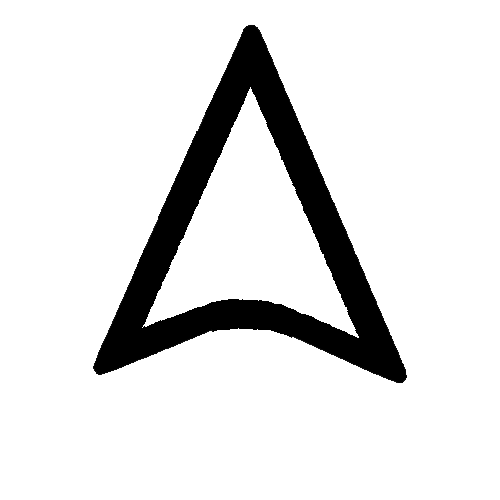
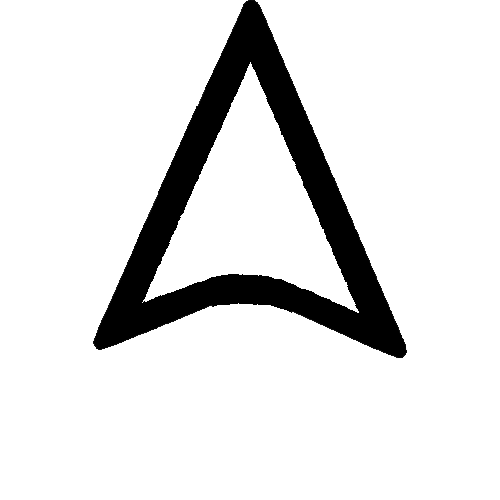
Modify cursor so that the tip is the origin point rather than the center of the img.

Changed region(s): [[0.18, 0.0, 0.81, 0.78]]

diff --git a/Examples-Web/SystemCursor/SystemCursorExample.js b/Examples-Web/SystemCursor/SystemCursorExample.js
@@ -18,24 +18,30 @@ function AddTouchFreeCursor()
     cursor.style.position = "absolute";
     cursor.width = 150;
     cursor.height = 150;
-    cursor.style.zIndex = "1001";
+    cursor.style.zIndex = "9001";
     cursor.style.transform = "rotate(-30deg)";
+    cursor.style.transformOrigin = "50% 0%";
+    cursor.style.transform = "translate(-50%, 0%) rotate(-30deg)";
 
     var cursorBorder = document.createElement('img');
     cursorBorder.src = "./images/CursorBorderBlackNoTail.png";
     cursorBorder.style.position = "absolute";
     cursorBorder.width = 150;
     cursorBorder.height = 150;
-    cursorBorder.style.zIndex = "1003";
+    cursorBorder.style.zIndex = "9003";
     cursorBorder.style.transform = "rotate(-30deg)";
+    cursorBorder.style.transformOrigin = "50% 0%";
+    cursorBorder.style.transform = "translate(-50%, 0%) rotate(-30deg)";
 
     var cursorFill = document.createElement('img');
     cursorFill.src = "./images/CursorFillBlackNoTail.png";
     cursorFill.style.position = "absolute";
     cursorFill.width = 150;
     cursorFill.height = 150;
-    cursorFill.style.zIndex = "1002";
+    cursorFill.style.zIndex = "9002";
     cursorFill.style.transform = "rotate(-30deg)";
+    cursorFill.style.transformOrigin = "50% 0%";
+    cursorFill.style.transform = "translate(-50%, 0%) rotate(-30deg)";
 
     // This is a special class used by the WebInputController to identify the html elements that
     // make up the cursor. This is so it can ignore cursor-related objects when it is looking
@@ -63,13 +69,10 @@ class SystemCursor extends TouchFree.Cursors.TouchlessCursor
     }
 
     UpdateCursor(_inputAction) {
-        this.cursorBorder.style.left = (_inputAction.CursorPosition[0] - (this.cursor.clientWidth / 2)) + "px";
-        this.cursorBorder.style.top = (window.innerHeight - (_inputAction.CursorPosition[1] + (this.cursor.clientHeight / 2))) + "px";
-
-        this.cursorFill.style.left = (_inputAction.CursorPosition[0] - (this.cursor.clientWidth / 2)) + "px";
-        this.cursorFill.style.top = (window.innerHeight - (_inputAction.CursorPosition[1] + (this.cursor.clientHeight / 2))) + "px";
+        let left = _inputAction.CursorPosition[0] + "px";
+        let top = (window.innerHeight - _inputAction.CursorPosition[1]) + "px";
+        this.cursor.style.left = this.cursorBorder.style.left = this.cursorFill.style.left = left;
+        this.cursor.style.top = this.cursorBorder.style.top = this.cursorFill.style.top = top;
         this.cursorFill.style.clipPath = "inset(" + (100 - (_inputAction.ProgressToClick * 100)).toString() + "% 0% 0% 0%)";
-
-        super.UpdateCursor(_inputAction);
     }
 }
